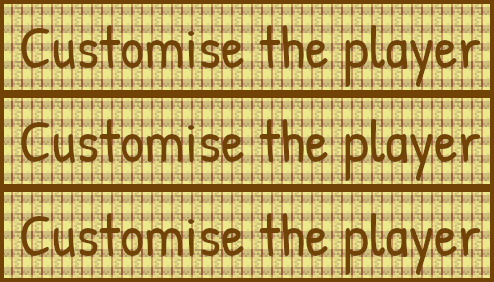
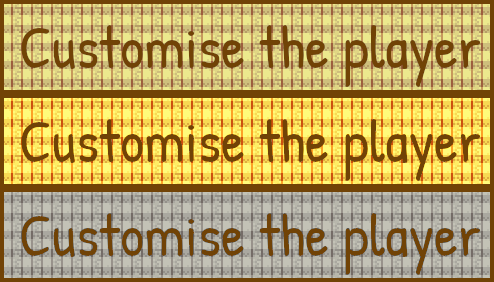
(+) change sprite on mouse hover

diff --git a/src/spritesheets/init_spritesheets.c b/src/spritesheets/init_spritesheets.c
@@ -11,7 +11,7 @@ void init_player(spritesheet_t *spritesheet, beginning_t *begin)
 {
     set_one_sprite("assets/img/player.png", &spritesheet[SP_PLAYER],
     begin, (init_sprite_t){{SPAWN_X, SPAWN_Y}, {0.7, 0.7},
-    {0, 0, 48, 62}, false, false});
+    {0, 0, 48, 62}, false, false, false});
 }
 
 void init_all_players(spritesheet_t *spritesheet, beginning_t *begin)
@@ -19,46 +19,46 @@ void init_all_players(spritesheet_t *spritesheet, beginning_t *begin)
     int i = 670;
     set_one_sprite("assets/img/skins/blue.png", &spritesheet[SP_PLAYER_BLUE],
     begin, (init_sprite_t){{i, HEIGHT / 2 + 100}, {3, 3},
-    {0, 0, 48, 62}, true, false});
+    {0, 0, 48, 62}, true, false, false});
     i += 200;
     set_one_sprite("assets/img/skins/brown.png", &spritesheet[SP_PLAYER_BROWN],
     begin, (init_sprite_t){{i, HEIGHT / 2 + 100}, {3, 3},
-    {0, 0, 48, 62}, true, false});
+    {0, 0, 48, 62}, true, false, false});
     i += 200;
     set_one_sprite("assets/img/skins/cyan.png", &spritesheet[SP_PLAYER_CYAN],
     begin, (init_sprite_t){{i, HEIGHT / 2 + 100}, {3, 3},
-    {0, 0, 48, 62}, true, false});
+    {0, 0, 48, 62}, true, false, false});
     i += 200;
     set_one_sprite("assets/img/skins/green.png", &spritesheet[SP_PLAYER_GREEN],
     begin, (init_sprite_t){{i, HEIGHT / 2 + 100}, {3, 3},
-    {0, 0, 48, 62}, true, false});
+    {0, 0, 48, 62}, true, false, false});
     i = 670;
     set_one_sprite("assets/img/skins/grey.png", &spritesheet[SP_PLAYER_GREY],
     begin, (init_sprite_t){{i, HEIGHT / 2 + 350}, {3, 3},
-    {0, 0, 48, 62}, true, false});
+    {0, 0, 48, 62}, true, false, false});
     i += 200;
     set_one_sprite("assets/img/skins/pink.png", &spritesheet[SP_PLAYER_PINK],
     begin, (init_sprite_t){{i, HEIGHT / 2 + 350}, {3, 3},
-    {0, 0, 48, 62}, true, false});
+    {0, 0, 48, 62}, true, false, false});
     i += 200;
     set_one_sprite("assets/img/skins/red.png", &spritesheet[SP_PLAYER_RED],
     begin, (init_sprite_t){{i, HEIGHT / 2 + 350}, {3, 3},
-    {0, 0, 48, 62}, true, false});
+    {0, 0, 48, 62}, true, false, false});
     i += 200;
     set_one_sprite("assets/img/skins/yellow.png",
     &spritesheet[SP_PLAYER_YELLOW],
     begin, (init_sprite_t){{i, HEIGHT / 2 + 350}, {3, 3},
-    {0, 0, 48, 62}, true, false});
+    {0, 0, 48, 62}, true, false, false});
 }
 
 void init_life_bar(spritesheet_t *spritesheet, beginning_t *begin)
 {
     set_one_sprite("assets/img/life_bar_box.png", &spritesheet[SP_LIFE_BAR_BOX],
     begin, (init_sprite_t){{444 - 320, 1196 - 197}, {0.25, 0.25},
-    {0, 0, 451, 121}, false, false});
+    {0, 0, 451, 121}, false, false, false});
     set_one_sprite("assets/img/life_bar.png", &spritesheet[SP_LIFE_BAR],
     begin, (init_sprite_t){{444 - 320, 1196 - 197}, {0.25, 0.25},
-    {0, 0, 451, 121}, false, false});
+    {0, 0, 451, 121}, false, false, false});
 }
 
 void init_spritesheets(spritesheet_t *spritesheet, beginning_t *begin)

diff --git a/src/spritesheets/init_spritesheets_menu.c b/src/spritesheets/init_spritesheets_menu.c
@@ -12,15 +12,15 @@ void init_buttons_menu(spritesheet_t *spritesheet, beginning_t *begin)
     set_one_sprite("assets/img/menu/button_play.png",
     &spritesheet[SP_PLAY],
     begin, (init_sprite_t){{WIDTH / 2, HEIGHT / 2.28}, {1, 1}, {0, 0, 156, 94},
-    .clickable = true, .active = true});
+    .clickable = true, .active = true, .change_sprite_on_mouse = true});
     set_one_sprite("assets/img/menu/button_custom.png",
     &spritesheet[SP_CUSTOM],
     begin, (init_sprite_t){{WIDTH / 2, HEIGHT / 1.84}, {1, 1}, {0, 0, 494, 94},
-    .clickable = true, .active = true});
+    .clickable = true, .active = true, .change_sprite_on_mouse = true});
     set_one_sprite("assets/img/menu/button_quit.png",
     &spritesheet[SP_QUIT],
     begin, (init_sprite_t){{WIDTH / 2, HEIGHT / 1.54}, {1, 1}, {0, 0, 404, 94},
-    .clickable = true, .active = true});
+    .clickable = true, .active = true, .change_sprite_on_mouse = true});
 }
 
 void init_menu(spritesheet_t *spritesheet, beginning_t *begin)
@@ -28,7 +28,7 @@ void init_menu(spritesheet_t *spritesheet, beginning_t *begin)
     set_one_sprite("assets/img/menu/background_menu.png",
     &spritesheet[SP_BACKGROUND_SC_MENU],
     begin, (init_sprite_t){{WIDTH / 2, HEIGHT / 2}, {1, 1}, {0, 0, 1920, 1080},
-    .clickable = false, .active = true});
+    .clickable = false, .active = true, .change_sprite_on_mouse = false});
     init_buttons_menu(spritesheet, begin);
 }
 
@@ -37,15 +37,15 @@ void init_soundbox(spritesheet_t *spritesheet, beginning_t *begin)
     set_one_sprite("assets/img/soundbox/sound_click.png",
     &spritesheet[SP_SOUND_CLICK], begin,
     (init_sprite_t){{WIDTH - 120, 40}, {0.1, 0.1}, {0, 0, 541, 541},
-    .clickable = true, .active = false});
+    .clickable = true, .active = false, .change_sprite_on_mouse = false});
     set_one_sprite("assets/img/soundbox/soundbox_potentio.png",
     &spritesheet[SP_SOUND_POTENTIO], begin,
     (init_sprite_t){{WIDTH - 275, 100}, {0.1, 0.1}, {0, 0, 3620, 541},
-    .clickable = true, .active = false});
+    .clickable = true, .active = false, .change_sprite_on_mouse = false});
     set_one_sprite("assets/img/soundbox/soundbox_select.png",
     &spritesheet[SP_SOUND_SELECT], begin,
     (init_sprite_t){{WIDTH - 312, 100}, {0.06, 0.06}, {0, 0, 541, 541},
-    .clickable = true, .active = false});
+    .clickable = true, .active = false, .change_sprite_on_mouse = false});
 }
 
 void init_inventory(spritesheet_t *spritesheet, beginning_t *begin)
@@ -53,5 +53,5 @@ void init_inventory(spritesheet_t *spritesheet, beginning_t *begin)
     set_one_sprite("assets/img/menu/inventory.png",
     &spritesheet[SP_INVENTORY], begin,
     (init_sprite_t){{WIDTH/2, HEIGHT/2}, {1, 1}, {0, 0, 750, 314},
-    .clickable = false, .active = false});
+    .clickable = false, .active = false, .change_sprite_on_mouse = false});
 }

diff --git a/src/spritesheets/init_spritesheets_rooms.c b/src/spritesheets/init_spritesheets_rooms.c
@@ -12,13 +12,14 @@ void init_spritesheets_rooms(spritesheet_t *spritesheet, beginning_t *begin)
     set_one_sprite("assets/img/house/background_base.png",
     &spritesheet[SP_BACKGROUND_SC_BASE],
     begin, (init_sprite_t){{577 + 700 / 2, 671 + 394 / 2}, {1, 1},
-    {0, 0, 700, 394}, .clickable = false, .active = false});
+    {0, 0, 700, 394}, .clickable = false, .active = false,
+    .change_sprite_on_mouse = false});
     set_one_sprite("assets/img/house/background_jail.png",
     &spritesheet[SP_BACKGROUND_JAIL],
     begin, (init_sprite_t){{WIDTH / 2, HEIGHT / 2}, {1, 1}, {0, 0, 640, 360},
-    .clickable = false, .active = false});
+    .clickable = false, .active = false, .change_sprite_on_mouse = false});
     set_one_sprite("assets/img/donjons/background_grotte.png",
     &spritesheet[SP_BACKGROUND_GROTTE], begin,
     (init_sprite_t){{444, 1196}, {1, 1}, {0, 0, 768, 432},
-    .clickable = false, .active = false});
+    .clickable = false, .active = false, .change_sprite_on_mouse = false});
 }

diff --git a/src/interface/check_mouse_on_buttons.c b/src/interface/check_mouse_on_buttons.c
@@ -1,0 +1,30 @@
+/*
+** EPITECH PROJECT, 2021
+** myrpg
+** File description:
+** check_mouse_on_buttons.c
+*/
+
+#include "../../include/rpg.h"
+
+void check_one_button(rpg_t *rpg, int i)
+{
+    sfFloatRect collision;
+
+    if (rpg->spritesheet[i].active && rpg->spritesheet[i].clickable &&
+    rpg->spritesheet[i].change_sprite_on_mouse) {
+        collision = sfSprite_getGlobalBounds(rpg->spritesheet[i].sprite);
+        if (check_mouse_on_one_button(rpg->all_events.mouse.pos, collision)) {
+            rpg->spritesheet[i].rect.top = (rpg->all_events.mouse.left) ?
+            rpg->spritesheet[i].rect.height * 2 :
+            rpg->spritesheet[i].rect.height;
+        } else
+            rpg->spritesheet[i].rect.top = 0;
+    }
+}
+
+void check_mouse_on_all_buttons(rpg_t *rpg)
+{
+    for (int i = 0; i < NBR_SP; ++i)
+        check_one_button(rpg, i);
+}

diff --git a/src/spritesheets/utils_sprites.c b/src/spritesheets/utils_sprites.c
@@ -12,6 +12,7 @@ beginning_t *begin, init_sprite_t init_sprite)
 {
     spritesheet->active = init_sprite.active;
     spritesheet->clickable = init_sprite.clickable;
+    spritesheet->change_sprite_on_mouse = init_sprite.change_sprite_on_mouse;
     spritesheet->pos = init_sprite.pos;
     spritesheet->rect = init_sprite.rect;
     spritesheet->sprite = sfSprite_create();

diff --git a/include/struct.h b/include/struct.h
@@ -26,6 +26,7 @@ typedef struct {
     sfIntRect rect;
     bool clickable;
     bool active;
+    bool change_sprite_on_mouse;
 } init_sprite_t;
 
 typedef struct {
@@ -99,6 +100,7 @@ typedef struct {
 typedef struct {
     bool active;
     bool clickable;
+    bool change_sprite_on_mouse;
     sfVector2f pos;
     sfIntRect rect;
     sfSprite *sprite;

diff --git a/src/init/init_main_map.c b/src/init/init_main_map.c
@@ -12,5 +12,5 @@ void init_main_map(spritesheet_t *spritesheet, beginning_t *begin)
     set_one_sprite("assets/img/main_map.png",
     &spritesheet[SP_BACKGROUND_SC_MAIN_MAP],
     begin, (init_sprite_t){{WIDTH / 2, WIDTH / 2}, {1, 1}, {0, 0, 1920, 1920},
-    false, false});
+    false, false, false});
 }

diff --git a/src/myrpg.c b/src/myrpg.c
@@ -104,6 +104,7 @@ void big_loop(rpg_t *rpg)
     if (rpg->screen[SC_MENU].active || rpg->screen[SC_CUSTOM_SKINS].active)
         set_view(rpg, rpg->screen[SC_MENU].view_pos);
     check_click_buttons(rpg);
+    check_mouse_on_all_buttons(rpg);
     draw_all(rpg);
 }
 

diff --git a/include/protos.h b/include/protos.h
@@ -38,6 +38,7 @@ void events_mouse_moved(sfEvent event, events_t *all_events);
 
 //interface
 void check_click_buttons(rpg_t *rpg);
+void check_mouse_on_all_buttons(rpg_t *rpg);
 void launch_game(rpg_t *rpg);
 void quit_game(rpg_t *rpg);
 void skin_blue(rpg_t *rpg);

diff --git a/src/events/events.c b/src/events/events.c
@@ -43,7 +43,7 @@ events_t *all_events)
             break;
     }
 }
-
+ 
 void my_events(rpg_t *rpg)
 {
     sfEvent event;
